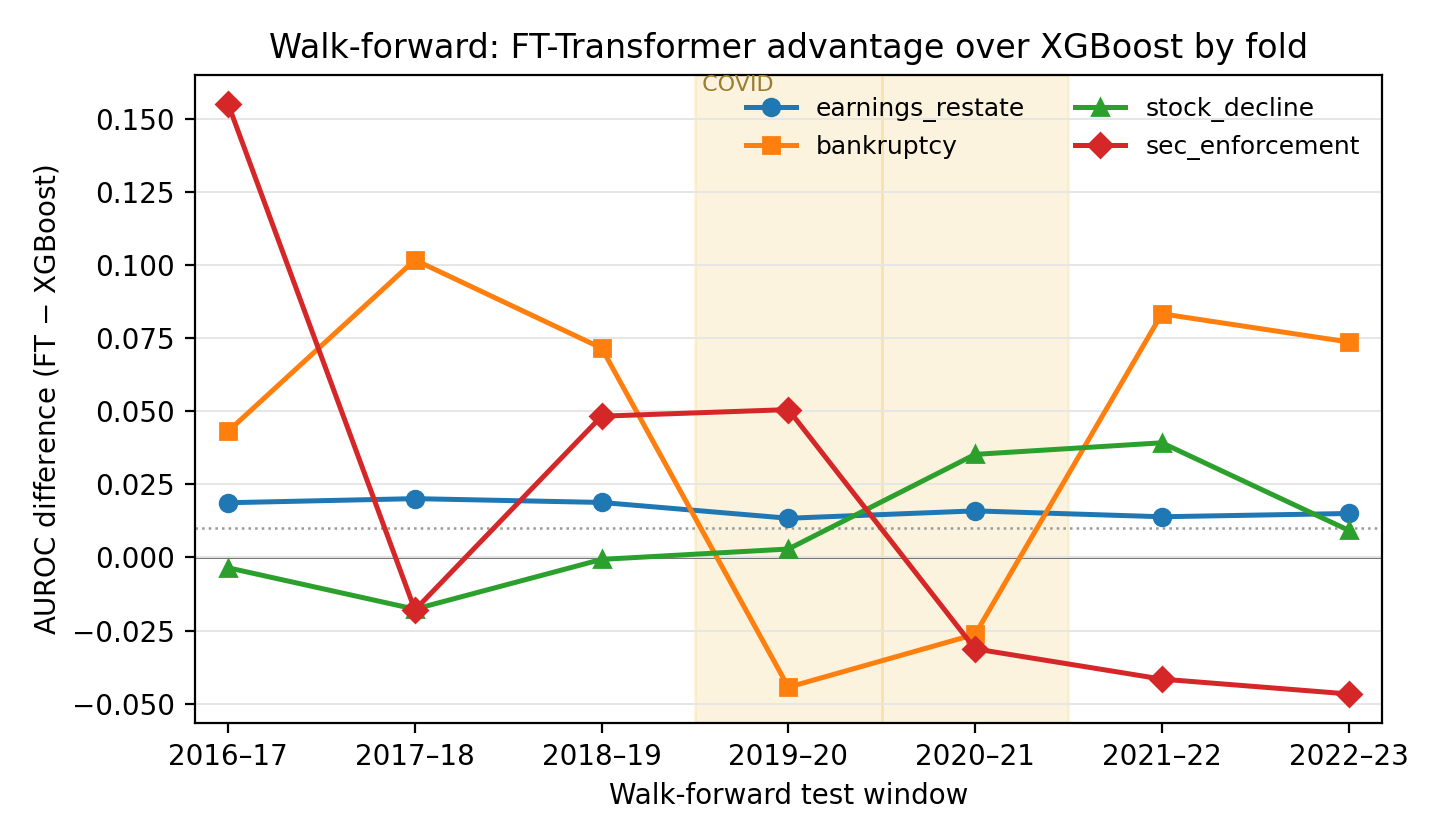
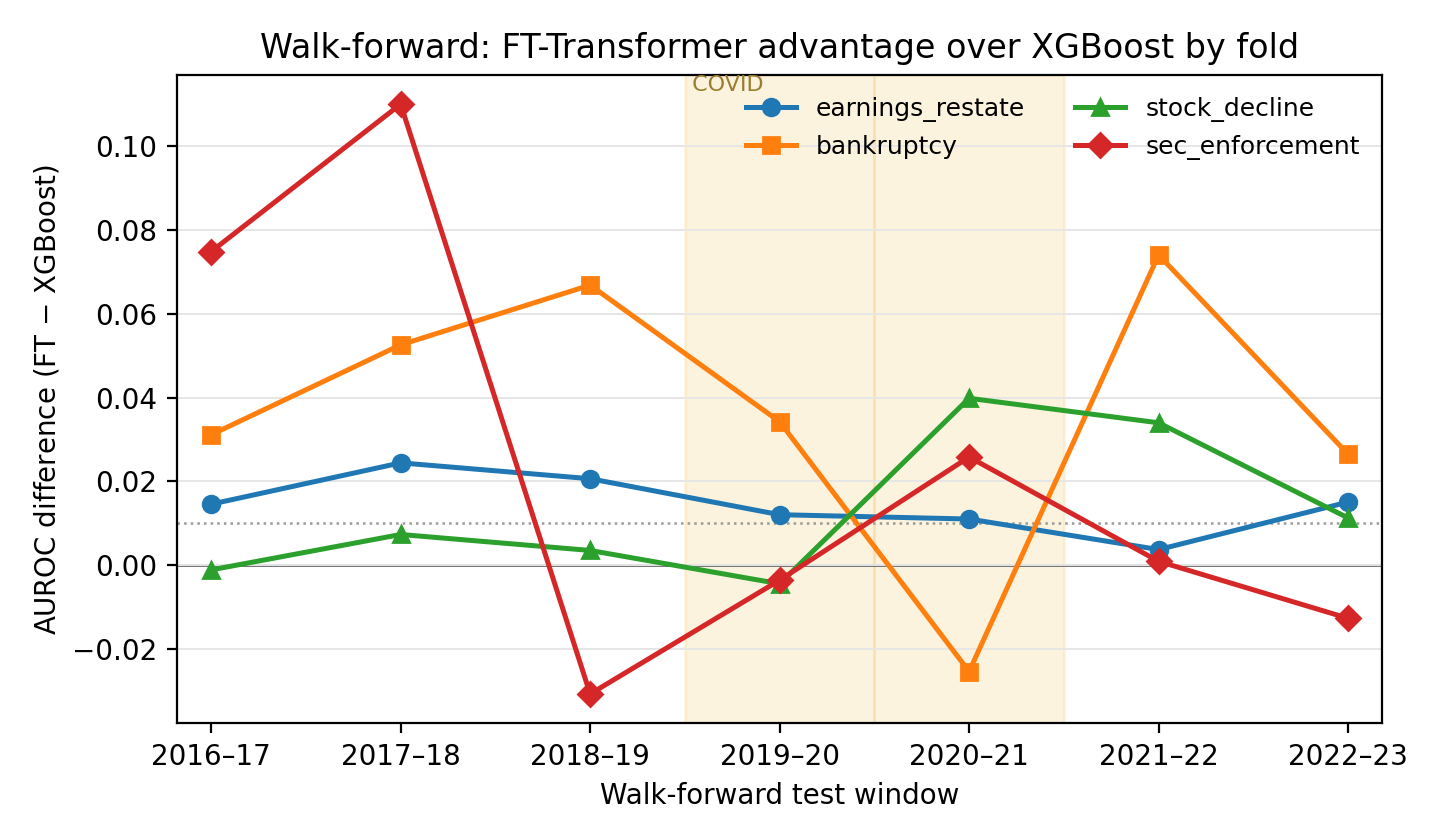
docs(study0): leak-free walk-forward + Optuna multi-seed numbers
Updates the paper to the regenerated results from the per-fold (leak-free)
walk-forward and the Optuna-architecture multi-seed run:

- Walk-forward: with each fold's preprocessing fit on its own training split,
  the FT advantage is cleaner — earnings_restate 7/7 (unchanged), bankruptcy
  now 6/7 (was 5/7) losing only the 2020-2021 window (the earlier "loses both
  COVID folds" claim was a leak artifact), stock_decline 5/7, sec_enforcement
  4/7. Table + figure regenerated; abstract/intro/discussion bankruptcy
  framing softened accordingly. The scaler look-ahead caveat is removed
  (setup + limitations) since the protocol is now leak-free.
- Multi-seed on the Optuna arch (d=128): std modest for stock_decline (0.004),
  bankruptcy (0.011), earnings_restate (0.013) but large for sec_enforcement
  (0.044), reinforcing it as the least reliable outcome.
- SSL note: the SSL study stays at d=192 (self-contained scratch-vs-pretrained
  comparison); not re-run on the Optuna arch.

Paper compiles (22 pp, all refs resolve).

diff --git a/paper/study0/sections/results.tex b/paper/study0/sections/results.tex
@@ -98,7 +98,7 @@ With all models tuned on the same protocol, the FT-Transformer wins three of the
 \subsection{Self-Supervised Pretraining}
 \label{sec:results_ssl}
 
-\Cref{tab:ssl} reports test AUROC for the tuned FT-Transformer initialized from scratch versus three SSL mask ratios. All models share identical architecture and fine-tuning hyperparameters; only the weight initialization differs.
+\Cref{tab:ssl} reports test AUROC for the tuned FT-Transformer initialized from scratch versus three SSL mask ratios. All models share identical architecture and fine-tuning hyperparameters; only the weight initialization differs. The SSL study uses the sweep architecture ($d = 192$); because it is a scratch-versus-pretrained comparison at a fixed architecture, it is self-contained and was not re-run on the Optuna-tuned architecture ($d = 128$) used for the gate and multi-seed analyses.
 
 \begin{table}[ht]
   \centering
@@ -137,22 +137,22 @@ To quantify initialization variance, we train the tuned FT-Transformer from scra
 
 \begin{table}[ht]
   \centering
-  \caption{Multi-seed test AUROC for the tuned FT-Transformer (from scratch). Mean $\pm$ std across 3 seeds.}
+  \caption{Multi-seed test AUROC for the tuned FT-Transformer (from scratch, Optuna-tuned architecture). Mean $\pm$ std across 3 seeds.}
   \label{tab:multiseed}
   \small
   \begin{tabular}{@{}lcccc@{}}
     \toprule
     Outcome & Seed 42 & Seed 123 & Seed 456 & Mean $\pm$ Std \\
     \midrule
-    \texttt{stock\_decline} & 0.660 & 0.644 & 0.646 & $0.650 \pm 0.007$ \\
-    \texttt{earnings\_restate} & 0.680 & 0.668 & 0.674 & $0.674 \pm 0.005$ \\
-    \texttt{sec\_enforcement} & 0.544 & 0.515 & 0.534 & $0.531 \pm 0.012$ \\
-    \texttt{bankruptcy} & 0.665 & 0.643 & 0.673 & $0.660 \pm 0.013$ \\
+    \texttt{stock\_decline} & 0.677 & 0.672 & 0.667 & $0.672 \pm 0.004$ \\
+    \texttt{earnings\_restate} & 0.682 & 0.653 & 0.658 & $0.664 \pm 0.013$ \\
+    \texttt{sec\_enforcement} & 0.529 & 0.486 & 0.593 & $0.536 \pm 0.044$ \\
+    \texttt{bankruptcy} & 0.658 & 0.681 & 0.658 & $0.666 \pm 0.011$ \\
     \bottomrule
   \end{tabular}
 \end{table}
 
-Variance is modest for the two higher-prevalence outcomes (\texttt{stock\_decline} std $= 0.007$, \texttt{earnings\_restate} std $= 0.005$) and somewhat larger for the rare-event outcomes (\texttt{sec\_enforcement} std $= 0.012$, \texttt{bankruptcy} std $= 0.013$), consistent with the small positive-class counts producing noisier gradient signals.
+Variance is modest for three of the four outcomes (\texttt{stock\_decline} std $= 0.004$, \texttt{bankruptcy} std $= 0.011$, \texttt{earnings\_restate} std $= 0.013$) but substantial for \texttt{sec\_enforcement} (std $= 0.044$; AUROC ranges 0.486--0.593 across seeds). The high rare-event variance---driven by the small positive-class count---reinforces that the \texttt{sec\_enforcement} result is the least reliable of the four, consistent with its near-chance discrimination and its walk-forward instability (\Cref{sec:results_walkforward}).
 
 \subsection{Go/No-Go Gate}
 \label{sec:results_gate}
@@ -252,25 +252,25 @@ To test whether the FT-Transformer's advantage is an artifact of the single 2020
 \begin{figure}[ht]
   \centering
   \includegraphics[width=\linewidth]{../../results/study0/figures/walk_forward_delta.png}
-  \caption{Walk-forward AUROC difference (FT-Transformer minus XGBoost) across the seven expanding-window folds. The shaded band marks the two COVID-era test windows; the dotted line is the 0.01 gate margin. The \texttt{earnings\_restate} advantage is flat and consistently above the margin, whereas \texttt{bankruptcy} reverses through the COVID boundary and the rare-event \texttt{sec\_enforcement} margin decays over time.}
+  \caption{Walk-forward AUROC difference (FT-Transformer minus XGBoost) across the seven expanding-window folds. The shaded band marks the two COVID-era test windows; the dotted line is the 0.01 gate margin. The \texttt{earnings\_restate} advantage is flat and consistently above the margin; \texttt{bankruptcy} is large but dips below zero only at 2020--2021; and the rare-event \texttt{sec\_enforcement} margin is volatile, decaying over time.}
   \label{fig:walkforward}
 \end{figure}
 
 \begin{table}[ht]
   \centering
-  \caption{Walk-forward validation: FT-Transformer vs.\ XGBoost across seven expanding-window folds. ``COVID folds'' are the two folds whose test windows include 2020 (test 2019--2020 and 2020--2021).}
+  \caption{Walk-forward validation: FT-Transformer vs.\ XGBoost across seven expanding-window folds, each with its preprocessing fit on that fold's training split only. ``COVID folds'' are the two folds whose test windows include 2020 (test 2019--2020 and 2020--2021).}
   \label{tab:walkforward}
   \small
   \begin{tabular}{@{}lcccc@{}}
     \toprule
     Outcome & FT wins & Mean $\Delta$ & Range of $\Delta$ & COVID folds \\
     \midrule
-    \texttt{earnings\_restate} & 7/7 & $+0.017$ & $[+0.013,\,+0.020]$ & FT wins both \\
-    \texttt{bankruptcy} & 5/7 & $+0.043$ & $[-0.044,\,+0.102]$ & FT loses both \\
-    \texttt{stock\_decline} & 4/7 & $+0.009$ & $[-0.018,\,+0.039]$ & FT wins both \\
-    \texttt{sec\_enforcement} & 3/7 & $+0.017$ & $[-0.047,\,+0.155]$ & mixed \\
+    \texttt{earnings\_restate} & 7/7 & $+0.014$ & $[+0.004,\,+0.024]$ & FT wins both \\
+    \texttt{bankruptcy} & 6/7 & $+0.037$ & $[-0.025,\,+0.074]$ & 1 of 2 (loses 2020--21) \\
+    \texttt{stock\_decline} & 5/7 & $+0.013$ & $[-0.005,\,+0.040]$ & 1 of 2 \\
+    \texttt{sec\_enforcement} & 4/7 & $+0.024$ & $[-0.031,\,+0.110]$ & 1 of 2 \\
     \bottomrule
   \end{tabular}
 \end{table}
 
-The walk-forward analysis sharpens the gate result into an outcome-specific picture. \texttt{earnings\_restate} is the one robustly stable advantage: the FT-Transformer wins all seven folds with a tight margin band and no degradation across the COVID boundary. \texttt{bankruptcy} is strong on average ($+0.043$) but regime-sensitive---it is the only outcome where the FT-Transformer loses \emph{both} COVID-era folds, indicating the advantage does not hold through the 2020--2021 disruption. \texttt{stock\_decline} is effectively a coin flip overall ($+0.009$ mean, 4/7), though the FT-Transformer does win the two COVID folds. \texttt{sec\_enforcement} is the least reliable: its 3/7 win rate and wide range ($[-0.047, +0.155]$) are dominated by a single early fold, and it loses the most recent folds---consistent with its near-chance discrimination on this extremely low-base-rate outcome. In short, the fixed-split gate is corroborated for \texttt{earnings\_restate}, partially supported for \texttt{bankruptcy}, and weak for the rare-event outcomes.
+The walk-forward analysis sharpens the gate result into an outcome-specific picture. \texttt{earnings\_restate} is the one robustly stable advantage: the FT-Transformer wins all seven folds with a tight margin band and no degradation across the COVID boundary. \texttt{bankruptcy} is strong overall ($+0.037$ mean, 6/7 folds); its only loss is the 2020--2021 window, so the advantage is largely robust but narrows through the depth of the COVID disruption. \texttt{stock\_decline} is marginal ($+0.013$ mean, 5/7), hovering near the gate margin throughout. \texttt{sec\_enforcement} is the least reliable: its 4/7 win rate and wide range ($[-0.031, +0.110]$) are dominated by the early folds, and it slips negative in the most recent windows---consistent with its near-chance discrimination and high seed variance (\Cref{sec:results_multiseed}) on this extremely low-base-rate outcome. In short, the fixed-split gate is corroborated strongly for \texttt{earnings\_restate}, well for \texttt{bankruptcy}, and only weakly for the rare-event \texttt{sec\_enforcement}.

diff --git a/paper/study0/sections/discussion.tex b/paper/study0/sections/discussion.tex
@@ -25,7 +25,7 @@ The FT-Transformer meets the AUROC gate against fully Optuna-tuned baselines (3/
 
   \item \textbf{Calibration and distributional properties.} On \texttt{stock\_decline}, the FT-Transformer produces substantially better-calibrated probabilities (ECE 0.038 vs.\ 0.152 for tuned XGBoost). On low-base-rate outcomes, the FT-Transformer's wider probability spread enables practical risk stratification, whereas XGBoost's near-degenerate predictions offer no discriminatory value. For a downstream architecture that consumes continuous representations, well-structured output distributions are essential.
 
-  \item \textbf{Robustness of the headline advantage.} Walk-forward validation across seven expanding windows shows the FT-Transformer's edge on \texttt{earnings\_restate}---the highest-signal of the rare outcomes---holds in every fold, including the two COVID-era windows, rather than being an artifact of the single 2020--2023 test split. The bankruptcy advantage is regime-sensitive (it reverses in the COVID folds), which we treat as a caveat rather than a basis for the decision.
+  \item \textbf{Robustness of the headline advantage.} Walk-forward validation across seven expanding windows (each with its preprocessing fit on its own training split) shows the FT-Transformer's edge on \texttt{earnings\_restate}---the highest-signal of the rare outcomes---holds in every fold, including the two COVID-era windows, rather than being an artifact of the single 2020--2023 test split. The bankruptcy advantage is also largely robust (6/7 folds), narrowing only in the 2020--2021 window.
 \end{enumerate}
 
 Additionally, SSL pretraining remains clearly beneficial: no single mask ratio dominates, but $r = 0.50$ yields the strongest gains on the most challenging outcomes (\texttt{sec\_enforcement}, \texttt{earnings\_restate}). The grid search (\Cref{fig:sweep_heatmap}) shows moderate hyperparameter sensitivity (up to 0.05 mean AUROC), with learning rate the most influential factor.
@@ -33,7 +33,7 @@ Additionally, SSL pretraining remains clearly beneficial: no single mask ratio d
 \subsection{Limitations}
 \label{sec:limitations}
 
-Several limitations should be noted. Although the FT-Transformer clears the AUROC gate against fully tuned baselines (3/4 wins), the margins are uneven and two of the three wins warrant caution. The \texttt{sec\_enforcement} result is particularly unstable: AUROC varies substantially across runs and seeds (multi-seed std $= 0.012$), a traditional-ratio logistic regression outperforms every other model on it, and the FT-Transformer wins only 3 of 7 walk-forward folds---all reflecting the extremely low base rate (AUPRC $< 0.02$). The \texttt{bankruptcy} outcome shows similar noise (multi-seed std $= 0.013$; bootstrap CI includes zero) and is regime-sensitive, reversing in both COVID-era walk-forward folds. While multi-seed evaluation (3 seeds) confirms modest variance for the two higher-prevalence outcomes (std $< 0.01$), the rare-event outcomes remain noisy; the most robust advantage is on \texttt{earnings\_restate}, which holds across all seven walk-forward folds. The walk-forward numbers themselves use a normalization scaler fit on data up to 2017 and shared across folds, so the two earliest folds incur mild feature-level look-ahead; refitting the scaler within each fold is the strictly leak-free protocol and is the one correction we would apply before treating the early-fold magnitudes as exact (the fold-level FT-vs-XGBoost sign, which both models share, is unaffected). Finally, the test period (2020--2023) spans the COVID-19 market disruption, which provides a valuable out-of-distribution stress test but also means the test distribution may differ systematically from the training distribution.
+Several limitations should be noted. Although the FT-Transformer clears the AUROC gate against fully tuned baselines (3/4 wins), the margins are uneven and the \texttt{sec\_enforcement} win warrants particular caution. That result is unstable: AUROC varies substantially across seeds (multi-seed std $= 0.044$, ranging 0.486--0.593), a traditional-ratio logistic regression outperforms every other model on it, and the FT-Transformer wins only 4 of 7 walk-forward folds---all reflecting the extremely low base rate (AUPRC $< 0.02$). The \texttt{bankruptcy} outcome is steadier (multi-seed std $= 0.011$, 6/7 walk-forward folds) but its bootstrap CI against default XGBoost still includes zero. The most robust advantage is on \texttt{earnings\_restate}, which holds across all seven walk-forward folds with low seed variance. Finally, the test period (2020--2023) spans the COVID-19 market disruption, which provides a valuable out-of-distribution stress test but also means the test distribution may differ systematically from the training distribution.
 
 \subsection{Related Work}
 \label{sec:related}

diff --git a/paper/study0/sections/abstract.tex b/paper/study0/sections/abstract.tex
@@ -1,3 +1,3 @@
 \begin{abstract}
-We evaluate the FT-Transformer architecture as a standalone encoder for structured financial data extracted from SEC EDGAR XBRL filings, benchmarking it against logistic regression, XGBoost, and gradient-boosted trees on four financial distress prediction tasks. Using a strictly temporal train/test split on 33{,}737 company-year observations (2012--2023), and giving the FT-Transformer and the baselines an equal Optuna tuning budget selected on the same expanding-window temporal cross-validation, we find that the FT-Transformer meets the AUROC gate (3/4 wins): it wins on earnings restatement, bankruptcy, and SEC enforcement, with stock decline a sub-threshold near-tie. (Against default-hyperparameter XGBoost the margin is wider---directionally positive on all four outcomes, +0.015 to +0.075 AUROC, significant on two by paired bootstrap---but we treat the equal-budget comparison as decisive.) Expanding-window walk-forward validation across the COVID-19 boundary shows this advantage is temporally stable for earnings restatement (the FT-Transformer wins all seven folds) but regime-sensitive for bankruptcy (it loses both COVID-era folds). The FT-Transformer also retains calibration advantages on the highest-prevalence outcome and produces more informative probability distributions on rare-event outcomes. Self-supervised pretraining via masked feature reconstruction provides additional lift, particularly on low-base-rate outcomes (+0.092 AUROC on SEC enforcement actions at mask ratio 0.50). Multi-seed evaluation (3 seeds) confirms that FT-Transformer variance is modest (std $\leq 0.013$). Together with these calibration and representation-learning properties, the met gate supports adopting the FT-Transformer as the base encoder for a larger research program investigating cross-modal joint-embedding predictive architectures for financial risk signals. All data extraction pipelines, feature definitions, and training code are released as open-source software.
+We evaluate the FT-Transformer architecture as a standalone encoder for structured financial data extracted from SEC EDGAR XBRL filings, benchmarking it against logistic regression, XGBoost, and gradient-boosted trees on four financial distress prediction tasks. Using a strictly temporal train/test split on 33{,}737 company-year observations (2012--2023), and giving the FT-Transformer and the baselines an equal Optuna tuning budget selected on the same expanding-window temporal cross-validation, we find that the FT-Transformer meets the AUROC gate (3/4 wins): it wins on earnings restatement, bankruptcy, and SEC enforcement, with stock decline a sub-threshold near-tie. (Against default-hyperparameter XGBoost the margin is wider---directionally positive on all four outcomes, +0.015 to +0.075 AUROC, significant on two by paired bootstrap---but we treat the equal-budget comparison as decisive.) Expanding-window walk-forward validation (each fold's preprocessing fit on its own training split) across the COVID-19 boundary shows this advantage is temporally stable for earnings restatement (the FT-Transformer wins all seven folds) and largely robust for bankruptcy (6/7 folds, losing only the 2020--2021 window). The FT-Transformer also retains calibration advantages on the highest-prevalence outcome and produces more informative probability distributions on rare-event outcomes. Self-supervised pretraining via masked feature reconstruction provides additional lift, particularly on low-base-rate outcomes (+0.092 AUROC on SEC enforcement actions at mask ratio 0.50). Multi-seed evaluation (3 seeds) shows modest variance on three outcomes (std $\leq 0.013$) but substantial variance on the rare SEC-enforcement outcome (std $= 0.044$). Together with these calibration and representation-learning properties, the met gate supports adopting the FT-Transformer as the base encoder for a larger research program investigating cross-modal joint-embedding predictive architectures for financial risk signals. All data extraction pipelines, feature definitions, and training code are released as open-source software.
 \end{abstract}

diff --git a/paper/study0/sections/introduction.tex b/paper/study0/sections/introduction.tex
@@ -24,4 +24,4 @@ This paper makes the following contributions:
   \item We release the complete data extraction pipeline, feature engineering code, model implementations, and evaluation scripts as open-source software to support reproducibility and further research.
 \end{enumerate}
 
-This work constitutes Study~0 of the Fin-JEPA research program, a gated sequence of studies that progressively builds toward a cross-modal joint-embedding predictive architecture for financial risk signals \citep{assran2023self}. Giving both sides an equal Optuna tuning budget on the same temporal cross-validation, the FT-Transformer meets the strict AUROC gate (3/4 wins); against default-hyperparameter XGBoost the margin is wider still (directionally positive on all four outcomes, significant on two). Walk-forward validation shows the advantage is temporally stable on the highest-signal outcome (earnings restatement) though regime-sensitive on bankruptcy. Together with its calibration properties, its suitability as a pretrained representation backbone, and the gains from self-supervised pretraining, this supports adopting it as the structured financial modality encoder in subsequent studies.
+This work constitutes Study~0 of the Fin-JEPA research program, a gated sequence of studies that progressively builds toward a cross-modal joint-embedding predictive architecture for financial risk signals \citep{assran2023self}. Giving both sides an equal Optuna tuning budget on the same temporal cross-validation, the FT-Transformer meets the strict AUROC gate (3/4 wins); against default-hyperparameter XGBoost the margin is wider still (directionally positive on all four outcomes, significant on two). Walk-forward validation shows the advantage is temporally stable on the highest-signal outcome (earnings restatement, all seven folds) and largely robust on bankruptcy (six of seven), with the rare SEC-enforcement outcome the least reliable. Together with its calibration properties, its suitability as a pretrained representation backbone, and the gains from self-supervised pretraining, this supports adopting it as the structured financial modality encoder in subsequent studies.

diff --git a/paper/study0/sections/setup.tex b/paper/study0/sections/setup.tex
@@ -28,7 +28,7 @@ All feature normalization statistics (medians, percentile bounds, quantile mappi
 
 Split sizes: 13{,}920 train / 5{,}657 validation / 14{,}160 test observations.
 
-As a robustness check, we also define a walk-forward evaluation scheme using expanding training windows. Starting with a train cutoff of 2014-12-31, each successive fold advances by one year, with a 1-year validation window and a 2-year test window, up to a final test boundary of 2023-12-31. This yields seven overlapping train/test splits (test windows from 2016--2017 through 2022--2023) that assess temporal stability of model performance across different market regimes, including the COVID-19 boundary. In the results reported here, feature normalization statistics are fit on data up to 2017-12-31 and shared across folds; for the two earliest folds (train cutoffs 2014 and 2015) this exposes the scaler to feature marginals from periods that overlap their test windows---a feature-level dependence shared by both models that we revisit in \Cref{sec:limitations}. Walk-forward results are reported in \Cref{sec:results_walkforward}.
+As a robustness check, we also define a walk-forward evaluation scheme using expanding training windows. Starting with a train cutoff of 2014-12-31, each successive fold advances by one year, with a 1-year validation window and a 2-year test window, up to a final test boundary of 2023-12-31. This yields seven overlapping train/test splits (test windows from 2016--2017 through 2022--2023) that assess temporal stability of model performance across different market regimes, including the COVID-19 boundary. Each fold fits its feature normalization statistics and coverage-pruning decisions on that fold's training split only, so no future information leaks into the preprocessing for any fold. Walk-forward results are reported in \Cref{sec:results_walkforward}.
 
 \subsection{Evaluation Metrics}
 \label{sec:metrics}